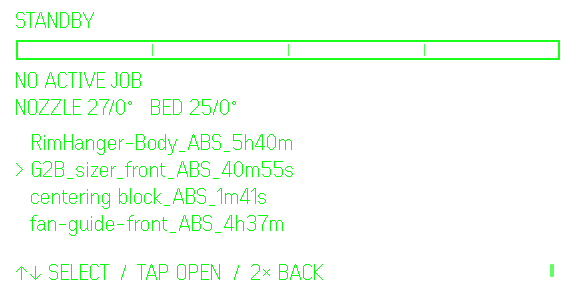
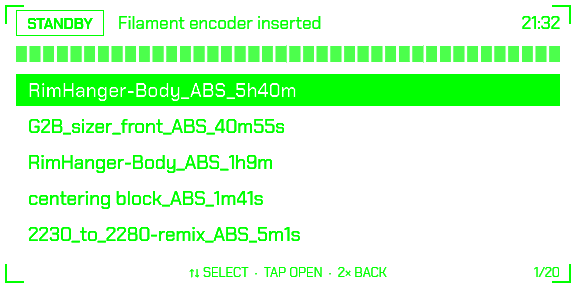
Cockpit screenshots and README update

diff --git a/README.md b/README.md
@@ -4,9 +4,15 @@
 
 Run your Klipper printer from Even Realities G2 glasses. Talks to Moonraker, shows the print on the lens, and lets you start, preheat, pause, resume and cancel with the temple touchpad.
 
-![Printing screen](shots/mock-printing.png)
+| | |
+|---|---|
+| ![Printing](shots/printing.png) | ![Confirm](shots/confirm.png) |
+| ![Standby](shots/standby.png) | ![Job list](shots/jobs.png) |
+| ![Preheat](shots/preheat.png) | ![Paused](shots/paused.png) |
 
-- Print state, progress bar, percent, layer, ETA, nozzle and bed temps (2 s poll)
+Simulator captures at the real 576x288. Standby, job list and preheat are a live printer; the print in progress is the built-in mock.
+
+- Cockpit display: segmented progress bar, percent, layer, time left, finish time, nozzle and bed thermometers with target marks (2 s poll)
 - Start any of the 20 newest gcode files already on the printer; the confirm screen shows material, time and grams
 - Preheat: bed 60 / 80 / 100, any `PREHEAT_*` macros it finds in your config, heaters off
 - Pause, resume, cancel
@@ -84,7 +90,7 @@ npx evenhub qr --url http://<that-machine's-LAN-IP>:5184/
 
 Scan the QR code from the Even app's developer / Even Hub section. The app loads the page from your dev server, which has to keep running while you use it.
 
-Status: this path is untested. The author is still waiting on hardware, so everything so far was verified in the simulator. Expect rough edges and please report them.
+Status: this path is untested. The author is still waiting on hardware, so everything so far was verified in the simulator. In particular the full-frame tiles assume the documented 288x144 image limit holds on real glasses. Expect rough edges and please report them.
 
 ### 5. Spoolman (optional)
 
@@ -108,10 +114,10 @@ Configure `[spoolman]` in `moonraker.conf` as usual and pick an active spool in 
 |---|---|
 | `src/moonraker.ts` | `Printer` interface, Moonraker HTTP client, mock printer |
 | `src/ui.ts` | Pure screen state machine: home, jobs, preheat, spool, confirm |
-| `src/display.ts` | Text containers with diffed updates, image fallback |
-| `src/bar.ts` | Progress bar as two image halves (images max out at 288 px wide) |
+| `src/cockpit.ts` | Draws the full frame on a canvas and cuts it into four 288x144 image tiles |
+| `src/display.ts` | Sends only the tiles that changed; drops to a plain-text UI if the host image channel wedges |
 | `src/main.ts` | Poll loop, gesture routing, action execution |
 
 ## License
 
-[MIT](LICENSE)
+[MIT](LICENSE). The bundled Chakra Petch font is under the [SIL Open Font License 1.1](https://openfontlicense.org).
